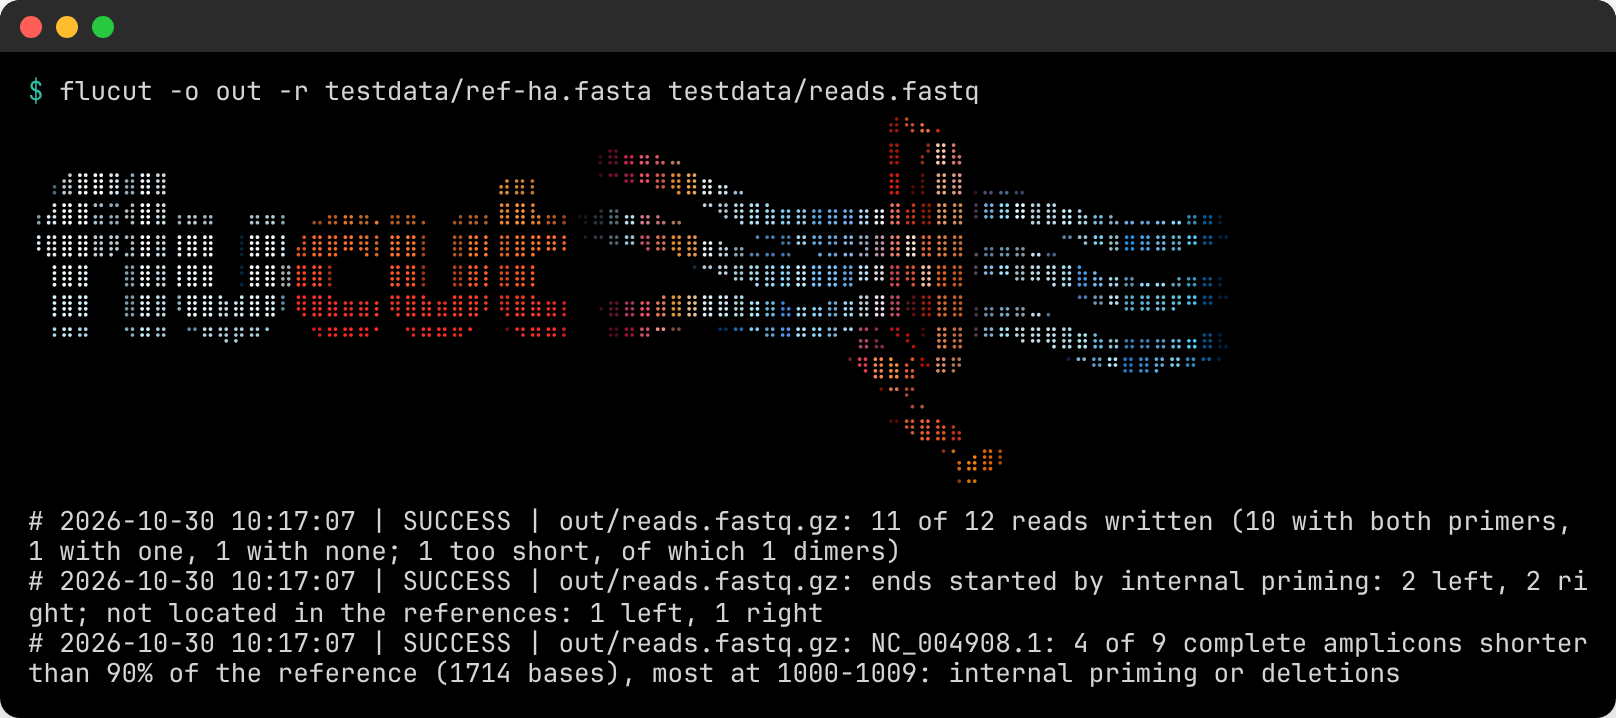
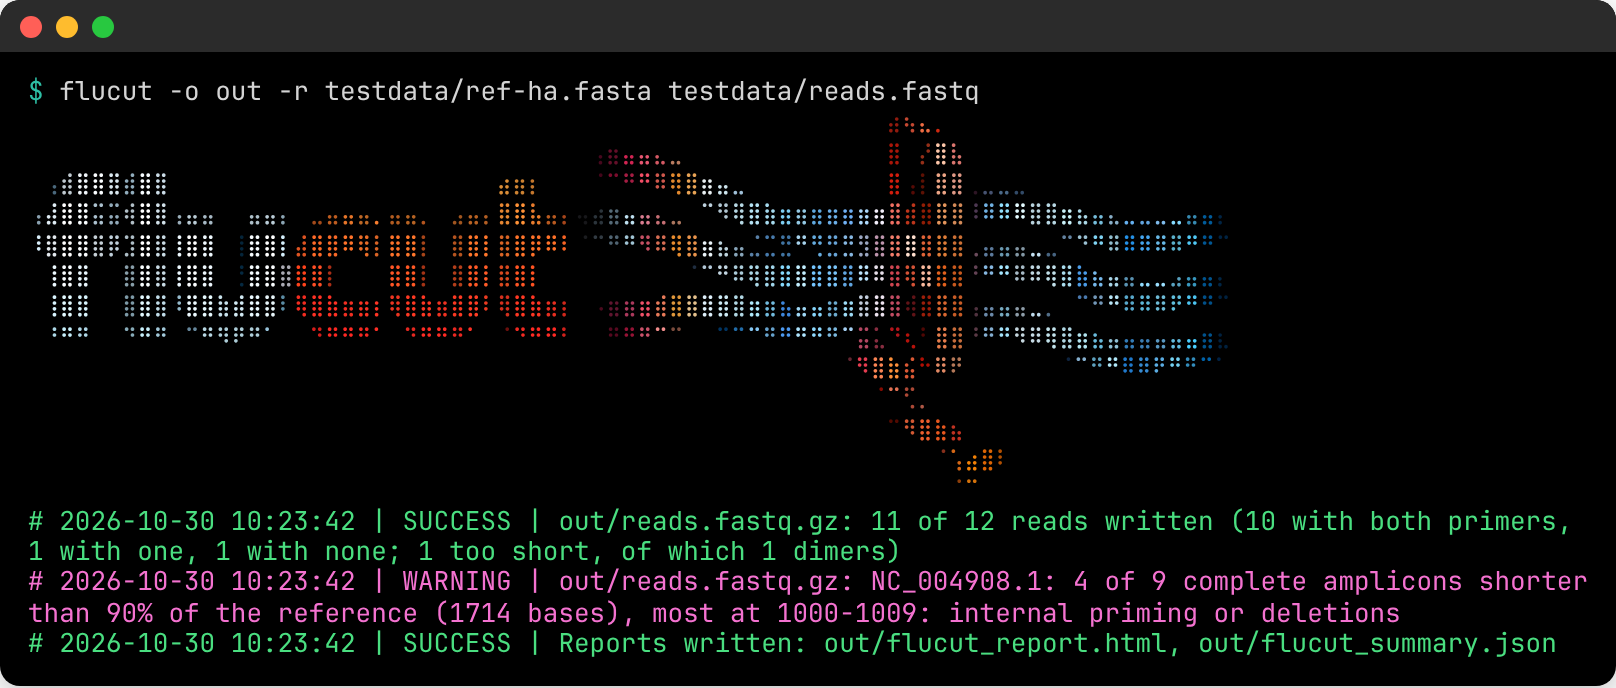
Manual: bright colors in the terminal screenshot

Changed region(s): [[0.0, 0.5799, 1.0, 1.0], [0.0, 0.1831, 0.7735, 0.5494], [0.0, 0.0916, 0.6188, 0.1526]]

diff --git a/docs/manual/figures/terminal.js b/docs/manual/figures/terminal.js
@@ -16,6 +16,9 @@ const fs = require('fs');
 
 const BASIC = ['#1e1e1e', '#e5484d', '#2ebfa5', '#f5a524', '#5b9be6',
                '#c26dd1', '#3fb8c9', '#d4d4d4'];
+// the bright colors (codes 90-97)
+const BRIGHT = ['#6b7280', '#ff6b6b', '#4ade80', '#fde047', '#7cb7ff',
+                '#f472d0', '#67e8f9', '#ffffff'];
 
 function esc(s) {
   return s.replace(/&/g, '&amp;').replace(/</g, '&lt;').replace(/>/g, '&gt;');
@@ -40,6 +43,7 @@ function render(text) {
           else if (c[i] === 1) bold = true;
           else if (c[i] === 22) bold = false;
           else if (c[i] >= 30 && c[i] <= 37) fg = BASIC[c[i] - 30];
+          else if (c[i] >= 90 && c[i] <= 97) fg = BRIGHT[c[i] - 90];
           else if (c[i] === 39) fg = null;
           else if (c[i] === 49) bg = null;
           else if ((c[i] === 38 || c[i] === 48) && c[i + 1] === 2) {
